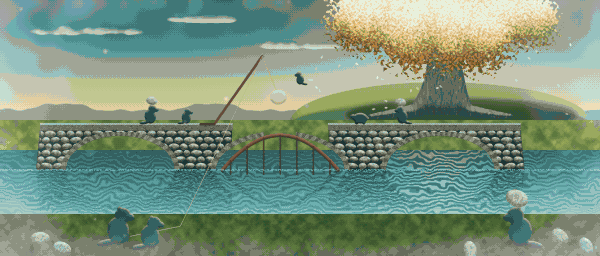
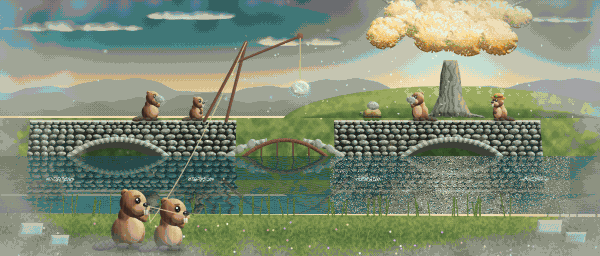
Ilustración del primer eco (el puente) rehecha con más detalle: castores pintados de verdad, río que refleja, arcos con sombra y musgo, árbol con racimos de hojas

diff --git a/herramientas/cinematicas_sendero.py b/herramientas/cinematicas_sendero.py
@@ -111,117 +111,280 @@ def _constructor(lz, x, y, e, mira, carga=False, tortuga=False, sem=0):
         lz.sumar_luz(lz.desenfocar(p, 3), "#f9d77a", 0.35)
 
 
+def _tortuga(lz, x, y, e, mira, luz, carga=False, sem=0):
+    """Una tortuga constructora de tres cuartos: el caparazón de placas con su borde, la cabeza y las patas."""
+    m = mira
+    patas = np.zeros((lz.H, lz.W))
+    for dx in (-7, -2, 4, 8):
+        patas = np.maximum(patas, lz.elipse(x + dx * e * m, y - 1.5 * e, 2.6 * e, 2.4 * e))
+    lz.sombrear(patas, ["#2a3a24", "#40583a", "#5e7a50", "#86a070"], 1.5 * e, luz)
+    cabeza = np.maximum(lz.elipse(x + 13 * e * m, y - 8 * e, 4 * e, 3.2 * e), lz.trazo([(x + 8 * e * m, y - 6 * e), (x + 12 * e * m, y - 8 * e)], 2.4 * e))
+    lz.sombrear(cabeza, ["#2a3a24", "#40583a", "#5e7a50", "#86a070", "#a8bf90"], 2.5 * e, luz)
+    lz.pintar(lz.circulo(x + 14.5 * e * m, y - 9 * e, 0.8 * e), "#120b0a")
+    lz.pintar(lz.circulo(x + 14.2 * e * m, y - 9.4 * e, 0.3 * e), "#ffffff")
+    concha = lz.elipse(x, y - 8 * e, 11 * e, 7.5 * e) * (lz.y < y - 3.5 * e)
+    placas = np.clip(1 - np.minimum(np.abs(np.sin((lz.x - x) / (3.2 * e))), np.abs(np.sin((lz.y - y) / (2.6 * e) + (lz.x - x) / (6 * e)))) * 3, 0, 1)
+    lz.sombrear(concha, ["#2a2014", "#4a3a20", "#6e5a30", "#947a44", "#bca060", "#d8c080"], 6 * e, luz, textura=1 - placas * 0.6, fuerza_tex=0.45)
+    lz.pintar(lz.trazo([(x - 11 * e, y - 4 * e), (x + 11 * e, y - 4 * e)], 1.2 * e), "#3a2c18", 0.8)
+    if carga:
+        p_ = lz.elipse(x - 1 * e * m, y - 18 * e, 7 * e, 5 * e, sem * 13 % 30)
+        lz.sombrear(p_, PIEDRA_R[2:], 3 * e, luz, textura=lz.ruido(1.2, 2, semilla=sem), fuerza_tex=0.3)
+        lz.sumar_luz(lz.desenfocar(p_, 3), "#f9d77a", 0.35)
+
+
+def _castor_carga(lz, x, y, e, mira, luz, sem=0, piedra=True, **kw):
+    """Un castor detallado (el de la familia de Shamba) que lleva una piedra en alto, con el filo dorado de la luz del árbol."""
+    ci.castor(lz, x, y, e=e, mira=mira, luz=luz, recorte=("#ffe39a", 0.75), recorte_dir=(0.6, -1), brazo_alto=piedra, sem=sem, **kw)
+    if piedra:
+        px_, py_ = x + 15 * e * mira, y - 34 * e
+        p_ = lz.elipse(px_, py_, 7.5 * e, 5.5 * e, sem * 17 % 40)
+        lz.sombrear(p_, PIEDRA_R[2:], 3 * e, luz, textura=lz.ruido(1.2, 2, semilla=sem + 50), fuerza_tex=0.3)
+        lz.sumar_luz(lz.desenfocar(p_, 3), "#f9d77a", 0.4)
+
+
+def _arbol_dorado(lz, x, y, rng, escala=1.0):
+    """El PRIMER ÁRBOL, grande, pintado con volumen: un tronco ancho y retorcido con raíces, ramas que se meten en la
+    copa, y la copa hecha de RACIMOS de hojas doradas (cada uno con su luz y su sombra, los de delante tapando a los de
+    detrás), con un halo de luz alrededor como un sol de amanecer."""
+    e = escala
+    copa_y = y - 112 * e
+    # el halo que da (detrás de todo)
+    lz.sumar_luz(np.clip(1 - np.hypot((lz.x - x) / (190 * e), (lz.y - copa_y) / (120 * e)), 0, 1) ** 1.5, "#ffe9a8", 0.7)
+    # el tronco y las raíces
+    tronco = lz.poligono([(x - 30 * e, y), (x - 16 * e, y - 30 * e), (x - 14 * e, y - 60 * e), (x - 9 * e, y - 82 * e),
+                          (x + 10 * e, y - 82 * e), (x + 15 * e, y - 58 * e), (x + 17 * e, y - 30 * e), (x + 32 * e, y)])
+    for (dx, lx, g) in ((-1, 46, 6), (1, 50, 6), (-1, 28, 4), (1, 30, 4)):
+        tronco = np.maximum(tronco, lz.trazo(lz.curva((x + dx * 12 * e, y - 6 * e), (x + dx * lx * 0.5 * e, y - 3 * e), (x + dx * lx * e, y + 1), n=24), g * e, 1.2 * e))
+    ramas = np.zeros((lz.H, lz.W))
+    for (b0, b1, b2, g) in (((x - 6, y - 78), (x - 40, y - 100), (x - 70, y - 118), 7), ((x + 6, y - 78), (x + 42, y - 102), (x + 76, y - 116), 7),
+                            ((x, y - 80), (x - 4, y - 112), (x + 6, y - 140), 6), ((x - 20, y - 92), (x - 30, y - 128), (x - 22, y - 150), 4)):
+        ramas = np.maximum(ramas, lz.trazo(lz.curva(b0, b1, b2, n=30), g * e, g * 0.4 * e))
+    madera = np.clip(tronco + ramas, 0, 1)
+    estrias = (np.abs(np.sin((lz.x - x) / (2.2 * e) + lz.ruido(6, 2, semilla=401) * 3)) > 0.86) * 1.0
+    lz.sombrear(madera, ["#1e1a14", "#33302a", "#4a4a3e", "#666a56", "#8a8e72", "#b0ae8a"], 9 * e, (0.4, -0.8, 0.5),
+                textura=1 - estrias * 0.5, fuerza_tex=0.45)
+    lz.sumar_luz(lz.desenfocar(madera * (lz.x > x + 6 * e), 2) * madera, "#ffd890", 0.25)      # el filo de luz
+    # la copa: racimos de hojas, de atrás adelante
+    racimos = []
+    for k in range(46):
+        a = rng.random() * np.pi
+        r = rng.random() ** 0.6
+        cx = x + np.cos(a) * r * 118 * e
+        cy = copa_y - np.sin(a) * r * 62 * e + rng.normal(0, 6 * e)
+        racimos.append((cy, cx, (12 + rng.random() * 12) * e))
+    racimos.sort()
+    oro = ["#5a4214", "#8a6420", "#b8862a", "#dca83e", "#f2c95a", "#fbe08a", "#fff4c8"]
+    for (cy, cx, rr) in racimos:
+        forma = lz.elipse(cx, cy, rr * 1.15, rr * 0.82, rng.uniform(-15, 15))
+        # el borde del racimo, hecho de hojas (no una elipse lisa)
+        hojitas = lz.desenfocar((lz.ruido(0.9, 2, semilla=int(cx * 7 + cy)) > 0.42).astype(float), 0.8) > 0.5
+        borde = np.clip(lz.elipse(cx, cy, rr * 1.3, rr * 0.98) - forma, 0, 1) * hojitas
+        racimo = np.clip(forma + borde, 0, 1)
+        lz.sombrear(racimo, oro, rr * 0.7, (0.35, -0.85, 0.55), textura=lz.ruido(1.4, 2, semilla=int(cx + cy)), fuerza_tex=0.18)
+        lz.pintar(np.clip(racimo - np.roll(racimo, int(-1.6 * lz.s), axis=0), 0, 1) * (lz.y > cy), "#3a2a0c", 0.35)   # sombra bajo cada racimo
+    copa = np.zeros((lz.H, lz.W))
+    for (cy, cx, rr) in racimos:
+        copa = np.maximum(copa, lz.elipse(cx, cy, rr * 1.2, rr * 0.9))
+    lz.sumar_luz(lz.desenfocar(copa, 10 * e) * (lz.y < copa_y), "#ffe39a", 0.3)
+    # destellos de hojas que brillan y hojas que caen
+    brillos = copa * (lz.ruido(0.5, 1, semilla=402) > 0.88) * (lz.y < copa_y + 10 * e)
+    lz.sumar_luz(brillos, "#fff8d8", 0.8)
+    hojas = np.zeros((lz.H, lz.W))
+    for k in range(50):
+        hx, hy = x + rng.normal(0, 110 * e), copa_y + rng.random() * 120 * e
+        hojas = np.maximum(hojas, lz.elipse(hx, hy, 1.5 * e, 0.7 * e, rng.uniform(0, 180)) * rng.uniform(0.5, 1))
+    lz.sumar_luz(hojas, "#fff1c0", 0.9)
+
+
 def eco_puente():
     """«Esta piedra nos la dio el Primer Árbol. Para que nadie quedara solo en una orilla.»
-    Vista desde la orilla, de lado: el río cruza la imagen de izquierda a derecha y el puente lo salta con tres
-    arcos (el del medio, a medio hacer, con la cimbra de madera y la grúa subiendo una piedra). Detrás, en una
-    colina, el Primer Árbol, enorme y dorado, que da luz como un sol de amanecer."""
-    lz = Lienzo(W, H, semilla=120)
-    HZ = 112
-    # cielo del amanecer: verde-agua arriba, dorado alrededor del árbol
-    lz.pintar(np.ones((lz.H, lz.W)), lz.gradiente(["#24403f", "#3f6663", "#7d9c8c", "#c5c9a0", "#f0dcaa"], desde=0, hasta=HZ))
-    calido = np.clip(1 - np.hypot((lz.x - 440) / 260, (lz.y - 60) / 120), 0, 1)
-    lz.sumar_luz(calido ** 1.4, "#ffe2a0", 0.65)
-    ci.cumulos(lz, [(80, 34, 60, 8), (210, 22, 46, 6), (300, 48, 50, 7)], luz=(0.8, -0.5),
-               colores=("#56766f", "#8fa896", "#d2d4b0", "#fff4d6"), semilla=124, alfa=0.75, suave=1.2)
-    # colinas lejanas en la neblina y la colina del árbol
-    lejos = ci.mascara_bajo(lz, ci.linea_horizonte(lz, HZ - 4, 8, 150, 125))
-    lz.pintar(lejos, "#7d9886")
-    colina = lz.elipse(440, HZ + 10, 150, 40) * (lz.y < HZ + 12)
-    lz.sombrear(colina, ["#4d6a55", "#66845f", "#86a072", "#a9bb8a"], 24, (0.2, -1, 0.5))
-    # el PRIMER ÁRBOL: grande, viejo, con la copa dorada que brilla
-    ci.arbol_grande(lz, 440, HZ + 2, 150, 210, luz=(0.0, -1.0, 0.6), semilla=129,
-                    rampa_copa=["#5a4a1a", "#8a6a22", "#b8862a", "#e6b54a", "#f9d77a", "#fff1c0", "#fffbe8"],
-                    rampa_tronco=["#26302a", "#36443a", "#4a5a4c", "#66785f", "#8a9a7a"])
-    copa = np.clip(1 - np.hypot((lz.x - 440) / 120, (lz.y - (HZ - 108)) / 60), 0, 1)
-    lz.sumar_luz(copa ** 1.2, "#ffeab0", 0.55)
+    Un amanecer de hace muchísimo tiempo sobre el Río Lento. De lado, el puente de piedra a medio hacer: tres arcos (el
+    del medio sin cerrar, con su cimbra de madera y una grúa de palos que sube una piedra que brilla). Castores y una
+    tortuga trabajan encima; en la orilla de aquí, dos castores tiran de la cuerda. Detrás, en su colina, el PRIMER
+    ÁRBOL dorado da luz como un sol: los rayos atraviesan la bruma. El río lo refleja todo, con su camino de oro."""
+    lz = Lienzo(W, H, s=3, semilla=120)
     rng = np.random.default_rng(130)
-    hojas = np.zeros((lz.H, lz.W))
-    for k in range(60):
-        hx, hy = 440 + (rng.random() - 0.5) * 300, 30 + rng.random() * 110
-        hojas = np.maximum(hojas, lz.elipse(hx, hy, 1.3, 0.6, rng.random() * 180) * (0.4 + rng.random() * 0.6))
-    lz.sumar_luz(hojas, "#fff1c0", 0.9)
-    # la orilla de enfrente (con juncos) y el agua
-    Y_AGUA0, Y_AGUA1 = 150, 214
-    otra = (lz.y > HZ + 8) * (lz.y < Y_AGUA0 + 2)
-    lz.pintar(otra, rampa(ci.HIERBA[2:7], np.clip(0.55 + (lz.ruido(6, 3, semilla=131) - 0.5) * 0.4, 0, 1)))
-    agua = (lz.y >= Y_AGUA0) * (lz.y < Y_AGUA1)
-    ondas = np.sin(lz.y * 1.4 + (lz.ruido(14, 3, semilla=127) - 0.5) * 12) * 0.5 + 0.5
-    lz.pintar(agua, rampa(AGUA, np.clip(0.35 + (ondas - 0.5) * 0.18 + (lz.y - Y_AGUA0) / 160, 0, 1)))
-    # el reflejo dorado del árbol en el agua
-    refl = agua * np.clip(1 - np.abs(lz.x - 440) / 110, 0, 1) * (ondas > 0.55)
-    lz.sumar_luz(refl, "#f9d77a", 0.5)
-    # el PUENTE, de lado: tablero, pretil, tres arcos (el del medio sin cerrar) y los pilares en el agua
-    X0, X1, YT = 40, 520, 130                       # extremos y altura del tablero
-    arcos = [(120, 54), (280, 64), (440, 54)]       # centro y semiancho de cada arco
-    base = Y_AGUA0 + 20                             # la línea del agua bajo el puente
-    muro = lz.poligono([(X0, YT), (X1, YT), (X1 + 4, base), (X0 - 4, base)])
+    HZ = 112
+    LUZ_A = (0.55, -0.75, 0.5)                    # la luz viene del árbol, al fondo a la derecha
+    # el cielo del amanecer: azul verdoso arriba, melocotón y oro alrededor del árbol
+    lz.pintar(np.ones((lz.H, lz.W)), lz.gradiente(["#1c3440", "#2e5058", "#5a7a78", "#a8a892", "#e8cfa0", "#fbe2b0"], desde=0, hasta=HZ))
+    calido = np.clip(1 - np.hypot((lz.x - 450) / 280, (lz.y - 70) / 130), 0, 1)
+    lz.sumar_luz(calido ** 1.6, "#ffd890", 0.7)
+    ci.cumulos(lz, [(70, 30, 70, 9), (190, 18, 52, 7), (300, 44, 60, 8), (560, 22, 50, 6)], luz=(0.9, -0.4),
+               colores=("#4a6670", "#7e9894", "#d8caa2", "#fff0cc"), semilla=124, alfa=0.8, suave=1.4)
+    # montañas en capas, cada vez más claras y azuladas con la distancia
+    for (base, amp, esc, sem, col) in ((HZ - 26, 12, 220, 141, "#8aa0a4"), (HZ - 14, 10, 160, 142, "#74908a"), (HZ - 4, 7, 110, 143, "#5f7e70")):
+        capa = ci.mascara_bajo(lz, ci.linea_horizonte(lz, base, amp, esc, sem))
+        lz.pintar(capa * (lz.y < HZ + 4), col)
+        lz.pintar(capa * (lz.y < HZ + 4), "#f4dcaa", 0.18)
+    # la colina del árbol y el PRIMER ÁRBOL (el mismo de los demás recuerdos)
+    colina = lz.elipse(450, HZ + 14, 170, 40) * (lz.y < HZ + 16)
+    lz.sombrear(colina, ["#3e5a44", "#5a7a52", "#7e9a66", "#a8b884"], 26, LUZ_A, textura=lz.ruido(4, 3, semilla=144), fuerza_tex=0.2)
+    # el PRIMER ÁRBOL: enorme y viejo, con la copa dorada que brilla
+    _arbol_dorado(lz, 450, HZ + 4, rng, escala=0.68)
+    # los rayos de luz que salen del árbol y atraviesan la bruma
+    fuente = (np.clip(1 - np.hypot((lz.x - 450) / 70, (lz.y - 40) / 40), 0, 1) ** 2).astype(np.float32)
+    rayos = lz.rayos(fuente, (450, 40), largo=0.965, pasos=56)
+    lz.sumar_luz(np.clip(rayos * 3.2, 0, 1) * (lz.y < 175), "#ffe2a0", 0.35)
+    # la orilla de enfrente, con juncos y árboles pequeños en la bruma
+    Y_AGUA0, Y_AGUA1 = 156, 214
+    otra = (lz.y > HZ + 6) * (lz.y < Y_AGUA0 + 2)
+    lz.pintar(otra, rampa(ci.HIERBA[2:7], np.clip(0.5 + (lz.ruido(6, 3, semilla=131) - 0.5) * 0.4, 0, 1)))
+    lz.pintar(otra * np.clip((Y_AGUA0 - lz.y) / 30, 0, 1), "#c8c8a0", 0.25)
+    juncos = np.zeros((lz.H, lz.W))
+    for k in range(160):
+        jx = rng.random() * W
+        juncos = np.maximum(juncos, lz.trazo([(jx, Y_AGUA0 + 1), (jx + rng.normal(0, 1.2), Y_AGUA0 - 4 - rng.random() * 7)], 0.45))
+    lz.pintar(juncos, "#4e6a3e", 0.9)
+    # ---- EL PUENTE, de lado: tres arcos (el del medio a medio hacer)
+    X0, X1, YT = 30, 540, 128
+    arcos = [(118, 56), (285, 66), (452, 56)]
+    base = Y_AGUA0 + 22
+    muro = lz.poligono([(X0, YT), (X1, YT), (X1 + 5, base), (X0 - 5, base)])
     huecos = np.zeros((lz.H, lz.W))
     for (cx, r) in arcos:
-        huecos = np.maximum(huecos, lz.elipse(cx, base, r, 34) * (lz.y > YT + 6))
-    # el tramo del medio aún no tiene tablero: solo las piedras del arco que suben desde cada lado
-    falta = lz.poligono([(232, YT - 2), (328, YT - 2), (328, base - 24), (232, base - 24)])
+        huecos = np.maximum(huecos, lz.elipse(cx, base, r, 36) * (lz.y > YT + 6))
+    falta = lz.poligono([(236, YT - 2), (334, YT - 2), (334, base - 26), (236, base - 26)])
     hecho = np.clip(muro - huecos - falta, 0, 1)
-    ci.piedras(lz, hecho, tam=9, semilla=132, rampa_p=PIEDRA_R[1:], luz=(0.2, -1, 0.5), mortero="#1a2420")
-    lz.pintar(np.clip(hecho * (1 - lz.desenfocar(hecho, 1.0)) * 3, 0, 1), "#1a2420", 0.6)
-    # dovelas de los arcos (claras, en abanico)
+    ci.piedras(lz, hecho, tam=8, semilla=132, rampa_p=["#2a2c26", "#41443a", "#5c6052", "#7a806d", "#9aa08a", "#c0c4ae", "#e6e2c8"],
+               luz=LUZ_A, mortero="#161a16")
+    # el interior de los arcos, en sombra (se ve el intradós, más oscuro hacia dentro)
     for (cx, r) in arcos:
-        anillo = np.clip(lz.elipse(cx, base, r + 5, 39) - lz.elipse(cx, base, r, 34), 0, 1) * (lz.y > YT + 2) * (lz.y < base)
-        if cx == 280:
-            anillo *= (np.abs(lz.x - 280) > 16)     # en el arco del medio faltan las de arriba
-        lz.pintar(anillo, rampa(PIEDRA_R[3:7], np.clip(0.4 + (lz.ruido(1, 2, semilla=cx) - 0.5) * 0.4, 0, 1)))
-        lz.pintar(anillo * ((np.floor(np.arctan2(lz.y - base, lz.x - cx) * 14) % 2) == 0), "#2e302a", 0.5)
-    # pretil encima del tablero (con albardilla clara)
-    pretil = lz.poligono([(X0, YT - 7), (232, YT - 7), (232, YT), (X0, YT)]) + lz.poligono([(328, YT - 7), (X1, YT - 7), (X1, YT), (328, YT)])
-    lz.pintar(np.clip(pretil, 0, 1), rampa(PIEDRA_R[2:6], np.clip(0.4 + (lz.ruido(1, 2, semilla=133) - 0.5) * 0.4, 0, 1)))
-    lz.pintar(np.clip(pretil, 0, 1) * (lz.y < YT - 5), PIEDRA_R[6], 0.9)
-    # la cimbra de madera bajo el arco del medio, con sus puntales
-    cimbra = lz.trazo(lz.curva((222, base), (280, base - 70), (338, base), n=60), 3, 3)
-    lz.sombrear(cimbra, ci.MADERA[1:6], 1.5, (0.2, -1, 0.5))
-    for k in range(7):
-        t = (k + 0.5) / 7
-        bx = (1 - t) ** 2 * 222 + 2 * (1 - t) * t * 280 + t ** 2 * 338
-        by = (1 - t) ** 2 * base + 2 * (1 - t) * t * (base - 70) + t ** 2 * base
-        lz.pintar(lz.trazo([(bx, by), (bx, base + 4)], 1.0), ci.MADERA[2], 0.9)
-    # la grúa de palos sobre el tramo ya hecho y la piedra del Primer Árbol que sube (brilla)
-    lz.pintar(lz.trazo([(214, YT - 6), (262, YT - 74)], 2.2), ci.MADERA[3])
-    lz.pintar(lz.trazo([(200, YT - 6), (214, YT - 6)], 1.6), ci.MADERA[2])
-    lz.pintar(lz.trazo([(262, YT - 74), (276, YT - 40)], 0.5), "#c9b77d")
-    piedra = lz.elipse(278, YT - 33, 8, 7)
-    lz.sombrear(piedra, PIEDRA_R[3:], 3, (0.2, -1, 0.5))
-    lz.sumar_luz(lz.desenfocar(piedra, 5), "#f9d77a", 0.7)
-    lz.sumar_luz(piedra, "#f9d77a", 0.35)
-    # piedras doradas ya puestas, aquí y allá
-    for (px_, py_) in ((150, YT + 10), (380, YT + 16), (470, YT + 8), (90, YT + 22)):
-        lz.sumar_luz(lz.desenfocar(lz.elipse(px_, py_, 4, 3), 3), "#f9d77a", 0.45)
-    # el reflejo del puente en el agua: el muro volteado bajo la línea del agua, oscuro y temblón
-    fila_base = int(base * lz.s)
-    alto_r = min(fila_base - int(YT * lz.s), lz.H - fila_base)
-    refl_p = np.zeros((lz.H, lz.W), np.float32)
-    refl_p[fila_base:fila_base + alto_r] = np.clip(hecho + np.clip(cimbra, 0, 1), 0, 1)[fila_base - 1:fila_base - 1 - alto_r:-1]
-    temblor = (np.sin(lz.y * 2.2 + lz.ruido(3, 2, semilla=135) * 6) > -0.3)
-    lz.pintar(refl_p * agua * temblor * np.clip(1 - (lz.y - base) / 50, 0, 1), "#162e2e", 0.55)
-    lz.pintar(agua * (np.abs(lz.y - base) < 1.0) * (lz.ruido(1, 2, semilla=136) > 0.4), "#9fd0d0", 0.6)
-    # los constructores sobre el puente y en la orilla, a contraluz (filo dorado)
-    for (x, y, e, m, kw) in ((150, YT - 7, 0.75, 1, dict(carga=True, sem=1)), (186, YT - 7, 0.6, 1, dict(sem=2)),
-                             (360, YT - 7, 0.72, -1, dict(tortuga=True)), (402, YT - 7, 0.7, -1, dict(carga=True, sem=5)),
-                             (300, YT - 46, 0.5, -1, dict(sem=7))):
-        _constructor(lz, x, y, e, m, **kw)
-    # la orilla de aquí (delante), con piedras esperando y dos constructores tirando de la cuerda
-    delante = (lz.y >= Y_AGUA1)
-    borde = lz.desenfocar(delante.astype(np.float32), 1.5)
-    lz.pintar(delante, rampa(ci.HIERBA[1:6], np.clip(0.45 + (lz.ruido(5, 3, semilla=134) - 0.5) * 0.45 - (lz.y - Y_AGUA1) / 160, 0, 1)))
-    lz.pintar(np.clip(borde - delante, 0, 1) * 2, "#9fd0d0", 0.5)
-    lz.pintar(lz.trazo([(262, YT - 74), (180, 226), (130, 236)], 0.5), "#c9b77d", 0.85)
-    for (x, y, e, m, kw) in ((118, 244, 1.5, 1, dict(sem=3)), (150, 248, 1.3, 1, dict(sem=4)), (520, 246, 1.6, -1, dict(carga=True, sem=6))):
-        _constructor(lz, x, y, e, m, **kw)
-    for k, (x, y) in enumerate(((40, 238), (62, 248), (560, 236), (586, 246), (470, 250))):
-        p = lz.elipse(x, y, 9, 6, k * 20)
-        lz.sombrear(p, PIEDRA_R[1:], 3, (0.2, -1, 0.5), textura=lz.ruido(1.4, 2, semilla=40 + k), fuerza_tex=0.3)
+        dentro = lz.elipse(cx, base, r, 36) * (lz.y > YT + 6) * (lz.y < base)
+        if cx == 285:
+            dentro = dentro * 0
+        lz.pintar(dentro, "#0c1414", 0.55)
+        intrados = np.clip(lz.elipse(cx, base, r, 36) - lz.elipse(cx - 4, base + 3, r - 3, 33), 0, 1) * (lz.y < base)
+        lz.pintar(intrados * (cx != 285), "#3a3c34", 0.8)
+    # dovelas claras en abanico
+    for (cx, r) in arcos:
+        anillo = np.clip(lz.elipse(cx, base, r + 5, 41) - lz.elipse(cx, base, r, 36), 0, 1) * (lz.y > YT + 2) * (lz.y < base)
+        if cx == 285:
+            anillo *= (np.abs(lz.x - 285) > 18)
+        lz.sombrear(anillo, ["#41443a", "#7a806d", "#9aa08a", "#c0c4ae", "#e6e2c8"], 2, LUZ_A,
+                    textura=((np.floor(np.arctan2(lz.y - base, lz.x - cx) * 16) % 2) == 0) * 1.0, fuerza_tex=0.35)
+    # la piedra mojada y el musgo junto al agua
+    mojado = hecho * np.clip(1 - (base - lz.y) / 10, 0, 1)
+    lz.pintar(mojado, "#1a2a28", 0.55)
+    musgo = hecho * (lz.ruido(1.6, 2, semilla=137) > 0.55) * np.clip(1 - (base - lz.y) / 16, 0, 1)
+    lz.pintar(musgo, "#4e7a3a", 0.75)
+    # el pretil, con su albardilla iluminada
+    pretil = np.clip(lz.poligono([(X0, YT - 8), (236, YT - 8), (236, YT), (X0, YT)]) + lz.poligono([(334, YT - 8), (X1, YT - 8), (X1, YT), (334, YT)]), 0, 1)
+    ci.piedras(lz, pretil, tam=6, semilla=133, rampa_p=["#41443a", "#5c6052", "#7a806d", "#9aa08a", "#c0c4ae", "#e6e2c8"], luz=LUZ_A, mortero="#161a16")
+    lz.pintar(pretil * (lz.y < YT - 6), "#f0e6c8", 0.8)
+    # la cimbra de madera bajo el arco del medio, con sus puntales y cuñas
+    cimbra = lz.trazo(lz.curva((222, base), (285, base - 76), (348, base), n=70), 3.2, 3.2)
+    lz.sombrear(cimbra, ci.MADERA[1:6], 1.5, LUZ_A, textura=lz.ruido(0.6, 2, semilla=138), fuerza_tex=0.4)
+    for k in range(8):
+        t = (k + 0.5) / 8
+        bx = (1 - t) ** 2 * 222 + 2 * (1 - t) * t * 285 + t ** 2 * 348
+        by = (1 - t) ** 2 * base + 2 * (1 - t) * t * (base - 76) + t ** 2 * base
+        lz.sombrear(lz.trazo([(bx, by), (bx + (t - 0.5) * 4, base + 4)], 1.2), ci.MADERA[1:5], 0.8, LUZ_A)
+    # las dovelas que ya suben desde cada lado del arco del medio
+    for lado in (-1, 1):
+        for k in range(5):
+            a = np.pi * (0.05 + k * 0.07)
+            dx = np.cos(a) * 66 * lado
+            dy = -np.sin(a) * 40
+            d_ = lz.elipse(285 + dx, base + dy, 5, 3.6, np.degrees(a) * lado)
+            lz.sombrear(d_, ["#41443a", "#7a806d", "#9aa08a", "#c0c4ae", "#e6e2c8"], 1.6, LUZ_A)
+    # la grúa de palos sobre el tramo hecho: dos patas, el brazo, la polea y la cuerda, y la piedra que sube (brilla)
+    for (a, b) in (((204, YT - 7), (246, YT - 86)), ((226, YT - 7), (246, YT - 86))):
+        lz.sombrear(lz.trazo([a, b], 2.4, 1.8), ci.MADERA[1:6], 1.2, LUZ_A)
+    lz.sombrear(lz.trazo([(236, YT - 66), (300, YT - 92)], 2.0, 1.6), ci.MADERA[1:6], 1.0, LUZ_A)
+    lz.sombrear(lz.circulo(300, YT - 92, 3.2), ci.MADERA[2:6], 1.0, LUZ_A)
+    lz.pintar(lz.trazo([(300, YT - 90), (300, YT - 46)], 0.55), "#d8c890")
+    piedra = lz.elipse(300, YT - 40, 9, 7.5)
+    lz.sombrear(piedra, ["#5c6052", "#9aa08a", "#c0c4ae", "#e6e2c8", "#fffbe8"], 3, LUZ_A, textura=lz.ruido(1.0, 2, semilla=139), fuerza_tex=0.25)
+    lz.sumar_luz(lz.desenfocar(piedra, 7), "#f9d77a", 0.75)
+    lz.sumar_luz(lz.trazo([(296, YT - 43), (303, YT - 37)], 0.6), "#fff1c0", 0.8)
+    # piedras doradas ya puestas, aquí y allá (las del Primer Árbol)
+    for (px_, py_) in ((150, YT + 12), (390, YT + 18), (480, YT + 10), (80, YT + 24), (205, YT + 30)):
+        lz.sumar_luz(lz.desenfocar(lz.elipse(px_, py_, 4, 3), 3), "#f9d77a", 0.5)
+    # los constructores sobre el puente (castores con piedras y una tortuga), iluminados por el árbol
+    _castor_carga(lz, 150, YT - 8, 0.62, 1, LUZ_A, sem=1)
+    _castor_carga(lz, 196, YT - 8, 0.5, 1, LUZ_A, sem=2, piedra=False)
+    _tortuga(lz, 372, YT - 8, 0.8, -1, LUZ_A, carga=True, sem=5)
+    _castor_carga(lz, 420, YT - 8, 0.6, -1, LUZ_A, sem=3)
+    _castor_carga(lz, 500, YT - 8, 0.52, -1, LUZ_A, sem=4, piedra=False, sombrero=True)
+    # ---- EL RÍO: refleja lo de encima en dos pasos, con una ondulación suave
+    agua = ((lz.y >= Y_AGUA0) * (lz.y < Y_AGUA1)).astype(float)
+    filas = lz.img.shape[0]
+    yy = np.arange(filas)
+    antes = lz.img.copy()
+
+    def ondular(img_r, desde, amplitud):
+        for f in range(int(desde * lz.s), min(filas, int(Y_AGUA1 * lz.s))):
+            d = (f / lz.s - desde) / max(1.0, Y_AGUA1 - desde)
+            desp = int(round(np.sin(f / lz.s * 0.55 + np.sin(f / lz.s * 0.13) * 1.5) * (0.6 + d * amplitud) * lz.s))
+            img_r[f] = np.roll(img_r[f], desp, axis=0)
+        return img_r
+    # 1) el cielo, las colinas y el árbol, reflejados desde la orilla del fondo
+    eje_fondo = int(Y_AGUA0 * lz.s)
+    lejos_r = ondular(antes[np.clip(2 * eje_fondo - 1 - yy, 0, filas - 1)].copy(), Y_AGUA0, 2.0)
+    hondo = np.clip((lz.y - Y_AGUA0) / (Y_AGUA1 - Y_AGUA0), 0, 1)
+    tinte = np.array([0.05, 0.15, 0.15])
+    lz.pintar(agua, np.clip(lejos_r * (0.6 - hondo[..., None] * 0.2) + tinte * (0.7 + hondo[..., None] * 0.3), 0, 1))
+    # 2) el puente (y lo que hay encima) reflejado desde su base, solo por debajo de ella
+    eje_p = int(base * lz.s)
+    origen_p = np.clip(2 * eje_p - 1 - yy, 0, filas - 1)
+    puente_m = np.clip(hecho + pretil + np.clip(cimbra, 0, 1), 0, 1)
+    puente_r = ondular(antes[origen_p].copy(), base, 2.5)
+    mascara_r = puente_m[origen_p] * (lz.y >= base) * agua * np.clip(1 - (lz.y - base) / 40, 0.2, 1)
+    lz.pintar(mascara_r, np.clip(puente_r * 0.5 + tinte * 0.6, 0, 1), 0.85)
+    # el agua bajo el puente (donde no llega el reflejo del cielo) y la línea de espuma en los pilares
+    lz.pintar(agua * (lz.y < base + 2) * (lz.y >= Y_AGUA0), "#14302e", 0.25)
+    for xp in (60, 200, 368, 535):
+        espuma = lz.elipse(xp, base + 1, 14, 2.2) * (lz.ruido(0.8, 2, semilla=xp) > 0.45)
+        lz.pintar(espuma, "#e6f4f0", 0.75)
+    # el camino de oro del árbol sobre el agua y destellos que bailan
+    camino = agua * np.clip(1 - np.abs(lz.x - 450) / (40 + (lz.y - Y_AGUA0) * 0.9), 0, 1)
+    vetas = (np.abs(np.sin(lz.y * 2.6 + lz.ruido(2.5, 2, semilla=145) * 5)) > 0.82)
+    lz.sumar_luz(camino * vetas, "#ffe39a", 0.85)
+    destellos = agua * (lz.ruido(0.5, 1, semilla=146) > 0.9) * (np.abs(lz.x - 450) < 120)
+    lz.sumar_luz(destellos, "#fff8e0", 0.9)
+    lineas = agua * (np.abs(np.sin(lz.y * 1.9 + lz.ruido(6, 2, semilla=147) * 4)) > 0.96)
+    lz.pintar(lineas, "#cfe6e0", 0.18)
+    # ---- LA ORILLA DE AQUÍ: hierba con briznas y flores, juncos, bloques de piedra cortados y dos castores tirando
+    delante = (lz.y >= Y_AGUA1).astype(float)
+    borde_tierra = lz.poligono([(0, Y_AGUA1 - 1), (600, Y_AGUA1 + 3), (600, 256), (0, 256)])
+    lz.sombrear(borde_tierra, ["#22301a", "#34482a", "#4a6436", "#6a8446", "#8aa05a"], 18, LUZ_A,
+                textura=lz.ruido(2, 3, semilla=134), fuerza_tex=0.3)
+    briznas = np.zeros((lz.H, lz.W))
+    for k in range(700):
+        bx, by = rng.random() * W, Y_AGUA1 + 2 + rng.random() * 44
+        briznas = np.maximum(briznas, lz.trazo([(bx, by), (bx + rng.normal(0, 1.5), by - 2 - rng.random() * 5)], 0.35) * rng.uniform(0.5, 1.0))
+    lz.pintar(briznas * borde_tierra, "#9ab866", 0.8)
+    for k in range(60):
+        fx, fy = rng.random() * W, Y_AGUA1 + 8 + rng.random() * 38
+        col = ["#f4e0a0", "#e8a0a8", "#fff4d6", "#c8a8e8"][k % 4]
+        lz.pintar(lz.circulo(fx, fy, 0.9), col)
+    juncos2 = np.zeros((lz.H, lz.W))
+    for k in range(70):
+        jx = rng.random() * W
+        juncos2 = np.maximum(juncos2, lz.trazo([(jx, Y_AGUA1 + 2), (jx + rng.normal(0, 2), Y_AGUA1 - 10 - rng.random() * 10)], 0.6, 0.3))
+    lz.pintar(juncos2, "#3e5a30", 0.95)
+    lz.pintar(juncos2 * (lz.ruido(0.5, 1, semilla=148) > 0.5), "#8ab060", 0.6)
+    # bloques de piedra cortados esperando, con marcas de cincel
+    for k, (bx, by, bw, bh) in enumerate(((30, 236, 22, 13), (58, 246, 18, 11), (548, 234, 24, 14), (574, 244, 20, 12))):
+        bloque = lz.poligono([(bx - bw / 2, by), (bx + bw / 2, by), (bx + bw / 2 + 2, by - bh), (bx - bw / 2 + 2, by - bh)])
+        marcas = ((lz.x * 1.2 + lz.y * 0.5) % 3.0 < 0.45) * 1.0
+        lz.sombrear(bloque, ["#2e302a", "#5c6052", "#9aa08a", "#c0c4ae", "#e6e2c8"], 3, LUZ_A, textura=1 - marcas * 0.4, fuerza_tex=0.4)
         if k % 2 == 0:
-            lz.sumar_luz(lz.desenfocar(p, 4), "#f9d77a", 0.4)
-    # el tono de los ecos: todo bañado en verde-agua, con la niebla clara de los recuerdos
-    lz.pintar(np.ones((lz.H, lz.W)), "#3e8a86", 0.14)
+            lz.sumar_luz(lz.desenfocar(bloque, 4), "#f9d77a", 0.3)
+    # la cuerda de la grúa baja hasta los dos castores de la orilla, que tiran de ella
+    lz.pintar(lz.trazo(lz.curva((246, YT - 86), (190, 170), (150, 222), n=40), 0.6), "#d8c890", 0.9)
+    ci.castor(lz, 128, 248, e=1.25, mira=1, luz=LUZ_A, recorte=("#ffe39a", 0.6), recorte_dir=(0.6, -1), brazo_alto=True, sem=11)
+    ci.castor(lz, 168, 250, e=1.05, mira=1, luz=LUZ_A, recorte=("#ffe39a", 0.6), recorte_dir=(0.6, -1), brazo_alto=True, sem=12, cria=True)
+    lz.pintar(lz.trazo([(150, 222), (148, 206), (180, 214)], 0.7), "#d8c890", 0.9)
+    # motas de luz flotando en la bruma dorada
+    motas = np.zeros((lz.H, lz.W))
+    for k in range(60):
+        motas = np.maximum(motas, lz.circulo(330 + rng.normal(0, 120), 40 + rng.random() * 140, 0.4 + rng.random() * 0.5))
+    lz.sumar_luz(motas, "#fff1c0", 0.8)
+    # viñeta suave y el tono de los ecos (verde-agua, la niebla clara de los recuerdos)
+    lz.pintar(np.clip((np.hypot((lz.x - 300) / 330, (lz.y - 128) / 170) - 0.78) * 2.2, 0, 1), "#0a1210", 0.5)
+    lz.pintar(np.ones((lz.H, lz.W)), "#3e8a86", 0.1)
     ci.marco_recuerdo(lz, color="#d8f0ec", semilla=128)
     return lz
 
